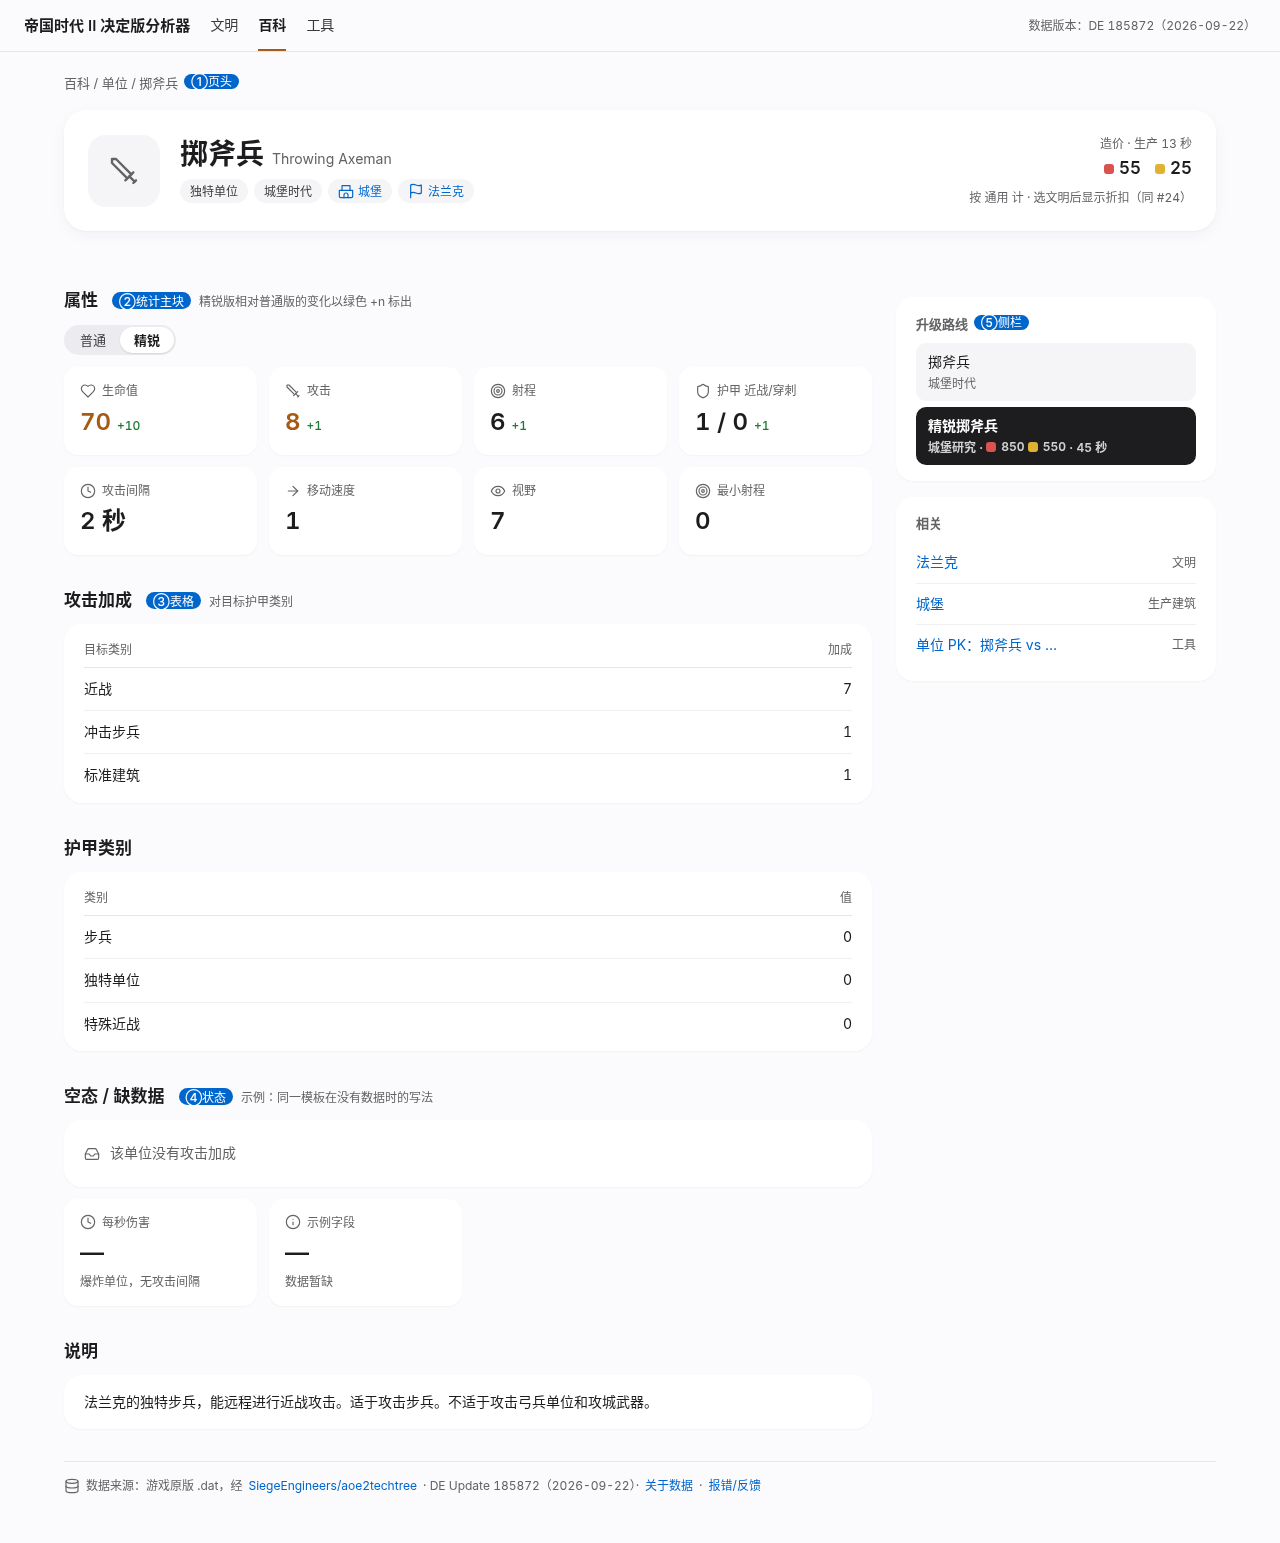
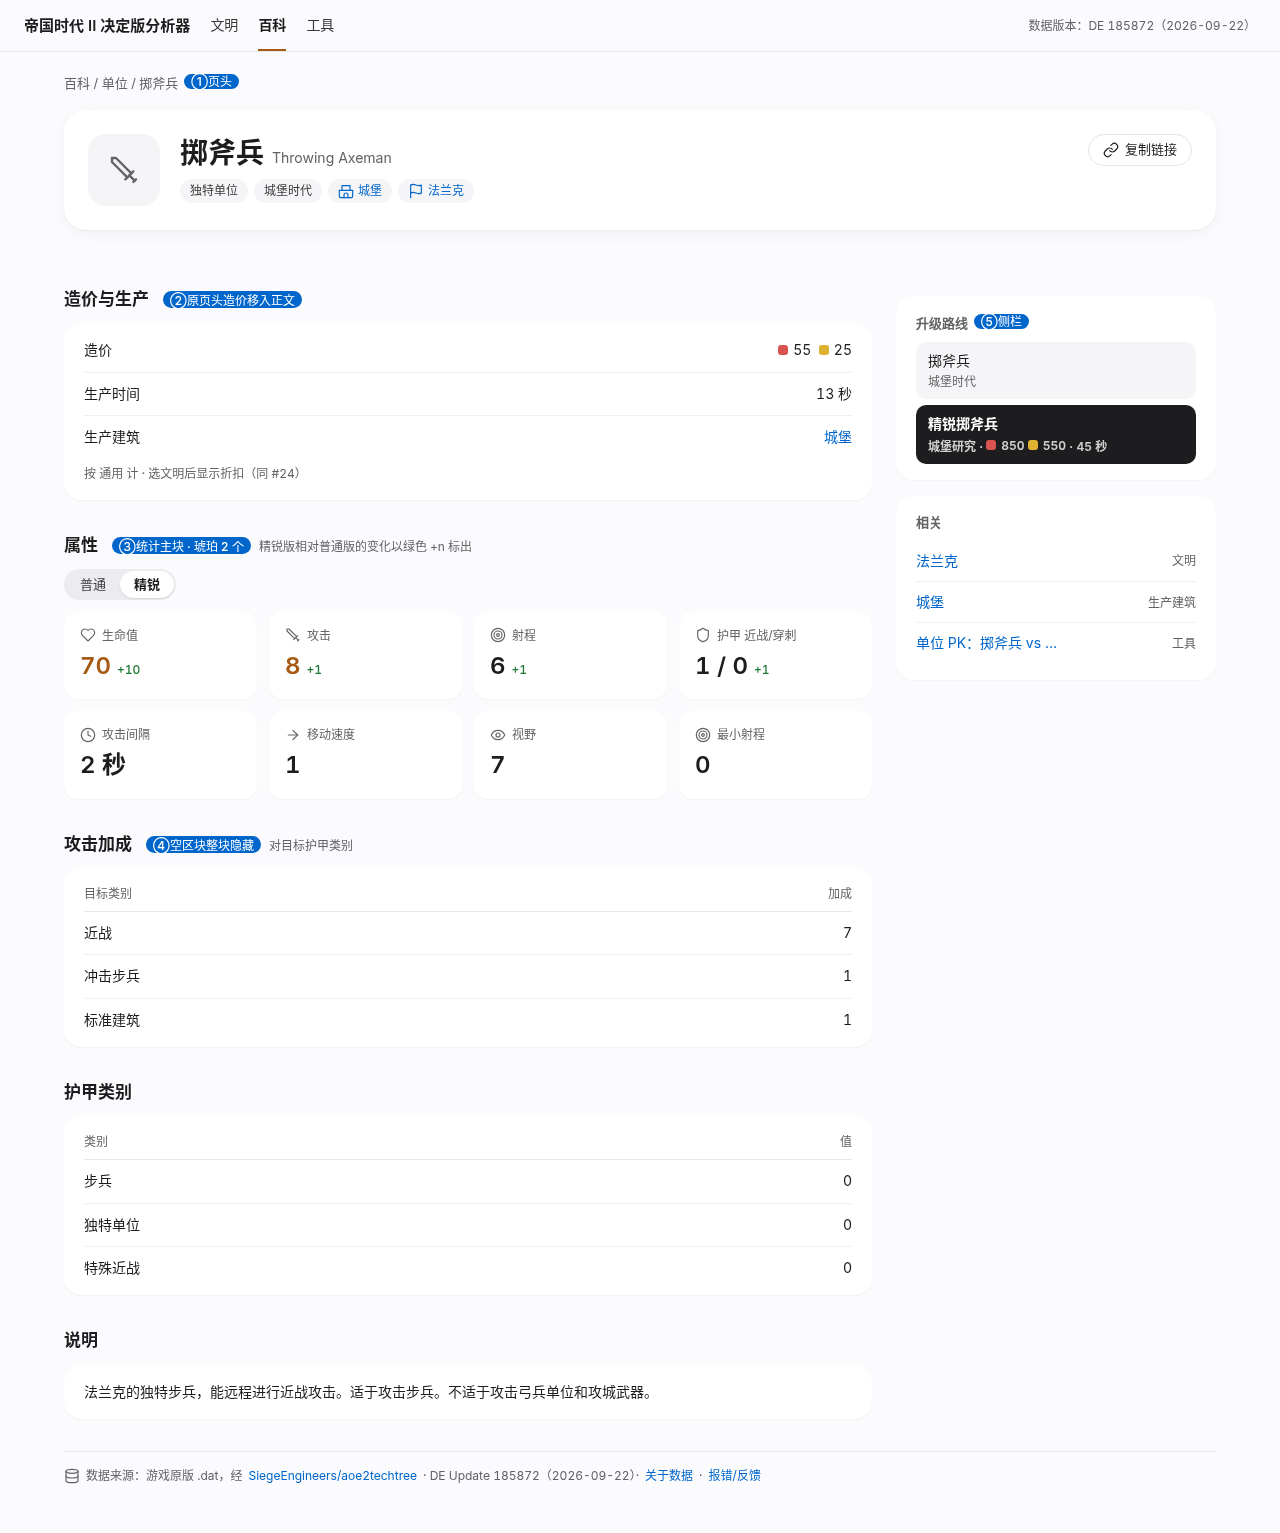
design(#6): 阶段3 模板 v2 — 空区块隐藏、页头仅复制链接、琥珀≤2、补建筑/科技 390

diff --git a/docs/design/mockups/issue6-stage3/icons.js b/docs/design/mockups/issue6-stage3/icons.js
@@ -1,2 +1,2 @@
-const P={sword:'<polyline points="14.5 17.5 3 6 3 3 6 3 17.5 14.5"/><line x1="13" x2="19" y1="19" y2="13"/><line x1="16" x2="20" y1="16" y2="20"/><line x1="19" x2="21" y1="21" y2="19"/>',shield:'<path d="M20 13c0 5-3.5 7.5-7.66 8.95a1 1 0 0 1-.67-.01C7.5 20.5 4 18 4 13V6a1 1 0 0 1 1-1c2 0 4.5-1.2 6.24-2.72a1.17 1.17 0 0 1 1.52 0C14.51 3.81 17 5 19 5a1 1 0 0 1 1 1z"/>',heart:'<path d="M19 14c1.49-1.46 3-3.21 3-5.5A5.5 5.5 0 0 0 16.5 3c-1.76 0-3 .5-4.5 2-1.5-1.5-2.74-2-4.5-2A5.5 5.5 0 0 0 2 8.5c0 2.3 1.5 4.05 3 5.5l7 7Z"/>',target:'<circle cx="12" cy="12" r="10"/><circle cx="12" cy="12" r="6"/><circle cx="12" cy="12" r="2"/>',clock:'<circle cx="12" cy="12" r="10"/><polyline points="12 6 12 12 16 14"/>',eye:'<path d="M2 12s3-7 10-7 10 7 10 7-3 7-10 7-10-7-10-7Z"/><circle cx="12" cy="12" r="3"/>',move:'<path d="M5 12h14"/><path d="m12 5 7 7-7 7"/>',flag:'<path d="M4 15s1-1 4-1 5 2 8 2 4-1 4-1V3s-1 1-4 1-5-2-8-2-4 1-4 1z"/><line x1="4" x2="4" y1="22" y2="15"/>',castle:'<path d="M22 20v-9H2v9a2 2 0 0 0 2 2h16a2 2 0 0 0 2-2Z"/><path d="M18 11V4H6v7"/><path d="M15 22v-4a3 3 0 0 0-3-3a3 3 0 0 0-3 3v4"/>',info:'<circle cx="12" cy="12" r="10"/><path d="M12 16v-4"/><path d="M12 8h.01"/>',db:'<ellipse cx="12" cy="5" rx="9" ry="3"/><path d="M3 5V19A9 3 0 0 0 21 19V5"/><path d="M3 12A9 3 0 0 0 21 12"/>',arrow:'<path d="M5 12h14"/><path d="m12 5 7 7-7 7"/>',flask:'<path d="M10 2v7.527a2 2 0 0 1-.211.896L4.72 20.55a1 1 0 0 0 .9 1.45h12.76a1 1 0 0 0 .9-1.45l-5.069-10.127A2 2 0 0 1 14 9.527V2"/><path d="M8.5 2h7"/>',inbox:'<polyline points="22 12 16 12 14 15 10 15 8 12 2 12"/><path d="M5.45 5.11 2 12v6a2 2 0 0 0 2 2h16a2 2 0 0 0 2-2v-6l-3.45-6.89A2 2 0 0 0 16.76 4H7.24a2 2 0 0 0-1.79 1.11z"/>',scroll:'<path d="M15 12h-5"/><path d="M15 8h-5"/><path d="M19 17V5a2 2 0 0 0-2-2H4"/><path d="M8 21h12a2 2 0 0 0 2-2v-1a1 1 0 0 0-1-1H11a1 1 0 0 0-1 1v1a2 2 0 1 1-4 0V5a2 2 0 1 0-4 0v2a1 1 0 0 0 1 1h3"/>'};
+const P={link:'<path d="M10 13a5 5 0 0 0 7.54.54l3-3a5 5 0 0 0-7.07-7.07l-1.72 1.71"/><path d="M14 11a5 5 0 0 0-7.54-.54l-3 3a5 5 0 0 0 7.07 7.07l1.71-1.71"/>',home:'<path d="M15 21v-8a1 1 0 0 0-1-1h-4a1 1 0 0 0-1 1v8"/><path d="M3 10a2 2 0 0 1 .709-1.528l7-5.999a2 2 0 0 1 2.582 0l7 5.999A2 2 0 0 1 21 10v9a2 2 0 0 1-2 2H5a2 2 0 0 1-2-2z"/>',sword:'<polyline points="14.5 17.5 3 6 3 3 6 3 17.5 14.5"/><line x1="13" x2="19" y1="19" y2="13"/><line x1="16" x2="20" y1="16" y2="20"/><line x1="19" x2="21" y1="21" y2="19"/>',shield:'<path d="M20 13c0 5-3.5 7.5-7.66 8.95a1 1 0 0 1-.67-.01C7.5 20.5 4 18 4 13V6a1 1 0 0 1 1-1c2 0 4.5-1.2 6.24-2.72a1.17 1.17 0 0 1 1.52 0C14.51 3.81 17 5 19 5a1 1 0 0 1 1 1z"/>',heart:'<path d="M19 14c1.49-1.46 3-3.21 3-5.5A5.5 5.5 0 0 0 16.5 3c-1.76 0-3 .5-4.5 2-1.5-1.5-2.74-2-4.5-2A5.5 5.5 0 0 0 2 8.5c0 2.3 1.5 4.05 3 5.5l7 7Z"/>',target:'<circle cx="12" cy="12" r="10"/><circle cx="12" cy="12" r="6"/><circle cx="12" cy="12" r="2"/>',clock:'<circle cx="12" cy="12" r="10"/><polyline points="12 6 12 12 16 14"/>',eye:'<path d="M2 12s3-7 10-7 10 7 10 7-3 7-10 7-10-7-10-7Z"/><circle cx="12" cy="12" r="3"/>',move:'<path d="M5 12h14"/><path d="m12 5 7 7-7 7"/>',flag:'<path d="M4 15s1-1 4-1 5 2 8 2 4-1 4-1V3s-1 1-4 1-5-2-8-2-4 1-4 1z"/><line x1="4" x2="4" y1="22" y2="15"/>',castle:'<path d="M22 20v-9H2v9a2 2 0 0 0 2 2h16a2 2 0 0 0 2-2Z"/><path d="M18 11V4H6v7"/><path d="M15 22v-4a3 3 0 0 0-3-3a3 3 0 0 0-3 3v4"/>',info:'<circle cx="12" cy="12" r="10"/><path d="M12 16v-4"/><path d="M12 8h.01"/>',db:'<ellipse cx="12" cy="5" rx="9" ry="3"/><path d="M3 5V19A9 3 0 0 0 21 19V5"/><path d="M3 12A9 3 0 0 0 21 12"/>',arrow:'<path d="M5 12h14"/><path d="m12 5 7 7-7 7"/>',flask:'<path d="M10 2v7.527a2 2 0 0 1-.211.896L4.72 20.55a1 1 0 0 0 .9 1.45h12.76a1 1 0 0 0 .9-1.45l-5.069-10.127A2 2 0 0 1 14 9.527V2"/><path d="M8.5 2h7"/>',inbox:'<polyline points="22 12 16 12 14 15 10 15 8 12 2 12"/><path d="M5.45 5.11 2 12v6a2 2 0 0 0 2 2h16a2 2 0 0 0 2-2v-6l-3.45-6.89A2 2 0 0 0 16.76 4H7.24a2 2 0 0 0-1.79 1.11z"/>',scroll:'<path d="M15 12h-5"/><path d="M15 8h-5"/><path d="M19 17V5a2 2 0 0 0-2-2H4"/><path d="M8 21h12a2 2 0 0 0 2-2v-1a1 1 0 0 0-1-1H11a1 1 0 0 0-1 1v1a2 2 0 1 1-4 0V5a2 2 0 1 0-4 0v2a1 1 0 0 0 1 1h3"/>'};
 document.querySelectorAll('[data-i]').forEach(e=>e.outerHTML='<svg class="i" aria-hidden="true" viewBox="0 0 24 24">'+P[e.dataset.i]+'</svg>');

diff --git a/docs/design/mockups/issue6-stage3/unit.html b/docs/design/mockups/issue6-stage3/unit.html
@@ -2,9 +2,11 @@
 <div class=crumb>百科 / 单位 / 掷斧兵<span class=ann>①页头</span></div>
 <div class=hd><div class=av><i data-i="sword"></i></div><div><h1>掷斧兵<small>Throwing Axeman</small></h1>
 <div class=chips><span class=chip>独特单位</span><span class=chip>城堡时代</span><a class=chip href=#><i data-i="castle"></i>城堡</a><a class=chip href=#><i data-i="flag"></i>法兰克</a></div></div>
-<div class=cost><div class=lb>造价 · 生产 13 秒</div><div class=v><span class=res><i class="dot f"></i>55</span><span class=res><i class="dot g"></i>25</span></div><div class=note>按 通用 计 · 选文明后显示折扣（同 #24）</div></div></div>
+<div class=hdr><button class=copy><i data-i="link"></i>复制链接</button></div></div>
 <div class=grid><div>
-<h2>属性<span class=ann>②统计主块</span><small>精锐版相对普通版的变化以绿色 +n 标出</small></h2>
+<h2>造价与生产<span class=ann>②原页头造价移入正文</span></h2>
+<div class=card><table><tr><td>造价</td><td class=r><span class=res><i class="dot f"></i>55</span>&nbsp;&nbsp;<span class=res><i class="dot g"></i>25</span></td></tr><tr><td>生产时间</td><td class=r>13 秒</td></tr><tr><td>生产建筑</td><td class=r><a href=#>城堡</a></td></tr></table><div class=note style="padding-bottom:10px">按 通用 计 · 选文明后显示折扣（同 #24）</div></div>
+<h2>属性<span class=ann>③统计主块 · 琥珀 2 个</span><small>精锐版相对普通版的变化以绿色 +n 标出</small></h2>
 <div class=seg><span>普通</span><span class=on>精锐</span></div>
 <div class=stats>
 <div class=st><div class=k><i data-i="heart"></i>生命值</div><div class="v key">70<span class=d>+10</span></div></div>
@@ -15,12 +17,9 @@
 <div class=st><div class=k><i data-i="move"></i>移动速度</div><div class=v>1</div></div>
 <div class=st><div class=k><i data-i="eye"></i>视野</div><div class=v>7</div></div>
 <div class=st><div class=k><i data-i="target"></i>最小射程</div><div class=v>0</div></div></div>
-<h2>攻击加成<span class=ann>③表格</span><small>对目标护甲类别</small></h2>
+<h2>攻击加成<span class=ann>④空区块整块隐藏</span><small>对目标护甲类别</small></h2>
 <div class=card><table><tr><th>目标类别</th><th class=r>加成</th></tr><tr><td>近战</td><td class=r>7</td></tr><tr><td>冲击步兵</td><td class=r>1</td></tr><tr><td>标准建筑</td><td class=r>1</td></tr></table></div>
 <h2>护甲类别</h2><div class=card><table><tr><th>类别</th><th class=r>值</th></tr><tr><td>步兵</td><td class=r>0</td></tr><tr><td>独特单位</td><td class=r>0</td></tr><tr><td>特殊近战</td><td class=r>0</td></tr></table></div>
-<h2>空态 / 缺数据<span class=ann>④状态</span><small>示例：同一模板在没有数据时的写法</small></h2>
-<div class=card><div class=empty><i data-i="inbox"></i>该单位没有攻击加成</div></div>
-<div class=stats style="margin-top:12px"><div class=st><div class=k><i data-i="clock"></i>每秒伤害</div><div class=v>—</div><div class=na>爆炸单位，无攻击间隔</div></div><div class=st><div class=k><i data-i="info"></i>示例字段</div><div class=v>—</div><div class=na>数据暂缺</div></div></div>
 <h2>说明</h2><div class=card><p style="font-size:14px;margin:10px 0">法兰克的独特步兵，能远程进行近战攻击。适于攻击步兵。不适于攻击弓兵单位和攻城武器。</p></div>
 </div><div class=side><div style="height:42px"></div>
 <div class=card><h3>升级路线<span class=ann>⑤侧栏</span></h3><div class=line><div>掷斧兵<small>城堡时代</small></div><div class=cur>精锐掷斧兵<small style="color:#ffffffcc">城堡研究 · <span class=res><i class="dot f"></i>850</span> <span class=res><i class="dot g"></i>550</span> · 45 秒</small></div></div></div>

diff --git a/docs/design/mockups/issue6-stage3/building.html b/docs/design/mockups/issue6-stage3/building.html
@@ -1,0 +1,19 @@
+<!doctype html><meta charset=utf-8><link rel=stylesheet href=t.css><body><div class="top"><b>帝国时代 II 决定版分析器</b><span class="n">文明</span><span class="n on">百科</span><span class="n">工具</span><span class="ver">数据版本：DE 185872（2026-09-22）</span></div><div class=wrap><div class=crumb>百科 / 建筑 / 兵营</div>
+<div class=hd><div class=av><i data-i="home"></i></div><div><h1>兵营<small>Barracks</small></h1><div class=chips><span class=chip>军事建筑</span><span class=chip>黑暗时代</span></div></div><div class=hdr><button class=copy><i data-i="link"></i>复制链接</button></div></div>
+<div class=grid><div>
+<h2>造价与建造</h2><div class=card><table><tr><td>造价</td><td class=r><span class=res><i class="dot w"></i>175</span></td></tr><tr><td>建造时间</td><td class=r>50 秒</td></tr><tr><td>驻扎</td><td class=r>10</td></tr></table><div class=note style="padding-bottom:10px">按 通用 计 · 56 个文明均可建造</div></div>
+<h2>属性<small>琥珀 2 个</small></h2><div class=stats>
+<div class=st><div class=k><i data-i="heart"></i>生命值</div><div class="v key">1200</div></div>
+<div class=st><div class=k><i data-i="shield"></i>护甲 近战/穿刺</div><div class="v key">0 / 7</div></div>
+<div class=st><div class=k><i data-i="eye"></i>视野</div><div class=v>6</div></div></div>
+<h2>可训练单位<small>节选</small></h2><div class=card><table><tr><th>单位</th><th>时代</th><th class=r>造价</th></tr>
+<tr><td><a href=#>民兵</a></td><td>黑暗</td><td class=r><span class=res><i class="dot f"></i>50</span> <span class=res><i class="dot g"></i>20</span></td></tr>
+<tr><td><a href=#>长矛兵</a></td><td>封建</td><td class=r><span class=res><i class="dot f"></i>35</span> <span class=res><i class="dot w"></i>25</span></td></tr>
+<tr><td><a href=#>鹰斥候</a></td><td>封建</td><td class=r><span class=res><i class="dot f"></i>20</span> <span class=res><i class="dot g"></i>50</span></td></tr></table></div>
+<h2>可研究科技</h2><div class=card><table><tr><th>科技</th><th>时代</th><th class=r>造价 · 时间</th></tr>
+<tr><td><a href=#>纵火</a></td><td>封建</td><td class=r><span class=res><i class="dot f"></i>75</span> <span class=res><i class="dot g"></i>25</span> · 25 秒</td></tr>
+<tr><td><a href=#>护卫</a></td><td>城堡</td><td class=r><span class=res><i class="dot f"></i>100</span> · 40 秒</td></tr>
+<tr><td><a href=#>软甲</a></td><td>城堡</td><td class=r><span class=res><i class="dot f"></i>50</span> <span class=res><i class="dot g"></i>100</span> · 25 秒</td></tr></table></div>
+<h2>说明</h2><div class=card><p style="font-size:14px;margin:10px 0">用于训练和升级步兵。靶场和马厩的前置建筑。</p></div>
+<p class=note>攻击、射程为 0 → 「攻击」区块整块隐藏（不显示「无」）</p>
+</div><div class=side><div class="card rel"><h3>相关</h3><a href=#>靶场 <span class=t>需要兵营</span></a><a href=#>马厩 <span class=t>需要兵营</span></a></div></div></div><div class="src"><i data-i="db"></i>数据来源：游戏原版 .dat，经 <a href="#">SiegeEngineers/aoe2techtree</a> · DE Update 185872（2026-09-22）· <a href="#">关于数据</a> · <a href="#">报错/反馈</a></div></div><script src=icons.js></script>

diff --git a/docs/design/mockups/issue6-stage3/civ.html b/docs/design/mockups/issue6-stage3/civ.html
@@ -2,18 +2,19 @@
 <div class=crumb>文明 / 法兰克</div>
 <div class=hd><div class="av round"><i data-i="flag"></i></div><div><h1>法兰克<small>Franks</small></h1>
 <div class=chips><span class=chip>骑兵文明</span><a class=chip href=#><i data-i="scroll"></i>文明加成表 <i data-i="arrow"></i></a></div></div>
-<div class=cost><div class=lb>开局建议</div><div class=v style="font-size:14px;font-weight:500">侦察骑兵 → 速城堡骑士 → 侠客/圣骑士</div></div></div>
+<div class=hdr><button class=copy><i data-i="link"></i>复制链接</button></div></div>
 <div class=grid><div>
+<h2>开局建议<span class=ann>原页头移入正文</span></h2><div class=card><p style="font-size:14px;margin:10px 0">侦察骑兵 → 速城堡骑士 → 侠客/圣骑士</p></div>
 <h2>能力评分<small>主观评分，仅供参考</small></h2>
 <div class=stats>
 <div class=st><div class=k>骑兵</div><div class="v key">10</div><div class=bar><i style="width:100%"></i></div></div>
-<div class=st><div class=k>弓手</div><div class=v>4</div><div class=bar><i style="width:40%"></i></div></div>
-<div class=st><div class=k>步兵</div><div class=v>6</div><div class=bar><i style="width:60%"></i></div></div>
+<div class=st><div class=k>弓手</div><div class=v>4</div><div class=bar><i class=n style="width:40%"></i></div></div>
+<div class=st><div class=k>步兵</div><div class=v>6</div><div class=bar><i class=n style="width:60%"></i></div></div>
 <div class=st><div class=k>经济</div><div class="v key">8</div><div class=bar><i style="width:80%"></i></div></div>
-<div class=st><div class=k>防御</div><div class=v>6</div><div class=bar><i style="width:60%"></i></div></div>
-<div class=st><div class=k>攻城</div><div class=v>5</div><div class=bar><i style="width:50%"></i></div></div>
-<div class=st><div class=k>僧侣</div><div class=v>4</div><div class=bar><i style="width:40%"></i></div></div>
-<div class=st><div class=k>海军</div><div class=v>5</div><div class=bar><i style="width:50%"></i></div></div></div>
+<div class=st><div class=k>防御</div><div class=v>6</div><div class=bar><i class=n style="width:60%"></i></div></div>
+<div class=st><div class=k>攻城</div><div class=v>5</div><div class=bar><i class=n style="width:50%"></i></div></div>
+<div class=st><div class=k>僧侣</div><div class=v>4</div><div class=bar><i class=n style="width:40%"></i></div></div>
+<div class=st><div class=k>海军</div><div class=v>5</div><div class=bar><i class=n style="width:50%"></i></div></div></div>
 <h2>文明加成</h2><div class=card><ul class=b><li><span class=tag>经济</span>采果工的工作速度 +15%</li><li><span class=tag>科技</span>磨坊科技免费</li><li><span class=tag>军事</span>骑兵单位从封建时代开始生命值 +20%</li><li><span class=tag>费用</span>城堡在城堡/帝王时代的费用 -15/25%</li></ul></div>
 <h2>团队加成</h2><div class=card><ul class=b><li>骑士系视野 +2</li></ul></div>
 <h2>独特科技</h2><div class=card><table><tr><th>科技</th><th>时代</th><th>效果</th></tr><tr><td><a href=#>王家敕令骑兵</a></td><td>城堡</td><td>骑马弩手花费的黄金 -40%</td></tr><tr><td><a href=#>骑士精神</a></td><td>帝王</td><td>马厩的工作速度 +40%</td></tr></table></div>

diff --git a/docs/design/mockups/issue6-stage3/tech.html b/docs/design/mockups/issue6-stage3/tech.html
@@ -1,0 +1,10 @@
+<!doctype html><meta charset=utf-8><link rel=stylesheet href=t.css><body><div class="top"><b>帝国时代 II 决定版分析器</b><span class="n">文明</span><span class="n on">百科</span><span class="n">工具</span><span class="ver">数据版本：DE 185872（2026-09-22）</span></div><div class=wrap><div class=crumb>百科 / 科技 / 织布机</div>
+<div class=hd><div class=av><i data-i="flask"></i></div><div><h1>织布机<small>Loom</small></h1><div class=chips><span class=chip>经济科技</span><span class=chip>黑暗时代</span><a class=chip href=#><i data-i="home"></i>城镇中心</a></div></div><div class=hdr><button class=copy><i data-i="link"></i>复制链接</button></div></div>
+<div class=grid><div>
+<h2>研究</h2><div class=card><table><tr><td>费用</td><td class=r><span class=res><i class="dot g"></i>50</span></td></tr><tr><td>研究时间</td><td class=r>25 秒</td></tr><tr><td>研究建筑</td><td class=r><a href=#>城镇中心</a></td></tr></table><div class=note style="padding-bottom:10px">按 通用 计 · 56 个文明均可研究</div></div>
+<h2>效果<small>琥珀 2 个</small></h2><div class=stats>
+<div class=st><div class=k><i data-i="heart"></i>村民生命值</div><div class="v key">+15</div></div>
+<div class=st><div class=k><i data-i="shield"></i>村民护甲 近战/穿刺</div><div class="v key">+1 / +2</div></div></div>
+<h2>说明</h2><div class=card><p style="font-size:14px;margin:10px 0">村民的生命值 +15，近战护甲 +1/远程护甲 +2。</p></div>
+<p class=note>无前置科技、无后续科技 → 「升级路线」区块整块隐藏</p>
+</div></div><div class="src"><i data-i="db"></i>数据来源：游戏原版 .dat，经 <a href="#">SiegeEngineers/aoe2techtree</a> · DE Update 185872（2026-09-22）· <a href="#">关于数据</a> · <a href="#">报错/反馈</a></div></div><script src=icons.js></script>

diff --git a/docs/design/mockups/issue6-stage3/t.css b/docs/design/mockups/issue6-stage3/t.css
@@ -34,3 +34,6 @@ table{width:100%;border-collapse:collapse;font-size:14px}th{font:500 12px Inter;
 ul.b{margin:0;padding:6px 0;list-style:none}ul.b li{padding:9px 0;border-bottom:1px solid var(--line);font-size:14px;display:flex;gap:10px}ul.b li:last-child{border:0}ul.b .tag{font-size:12px;color:var(--mu);min-width:40px}
 .note{font-size:12px;color:var(--mu);margin-top:6px}
 @media (max-width:600px){.ver{display:none}.side>div[style]{display:none}.top .n{display:none}.wrap{padding:12px 16px 40px}.hd{grid-template-columns:56px 1fr;padding:18px;gap:14px}.av{width:56px;height:56px}h1{font-size:22px}.cost{grid-column:1/-1;text-align:left;border-top:1px solid var(--line);padding-top:12px}.cost .v{justify-content:flex-start}.grid{grid-template-columns:1fr}.stats{grid-template-columns:repeat(2,1fr);gap:8px}.st .v{font-size:20px}.card{padding:4px 16px}}
+.hdr{align-self:start}.copy{font:inherit;font-size:13px;height:32px;padding:0 14px;border-radius:999px;border:1px solid var(--bd);background:var(--surf);color:var(--tx);display:inline-flex;gap:6px;align-items:center}
+.bar i.n{background:#aeaeb2}
+@media (max-width:600px){.hd{grid-template-columns:56px 1fr auto}.hdr{grid-column:auto}.copy span{display:none}}

diff --git a/docs/design/mockups/issue6-stage3/SPEC.md b/docs/design/mockups/issue6-stage3/SPEC.md
@@ -1,0 +1,7 @@
+# #6 阶段3 详情页统一模板 v2（Steve 四点已落实）
+
+1. 空区块整块隐藏：没有数据的区块连标题一起不渲染，不出现空态、不显示「无」。单个字段缺失（如爆炸单位 DPS）仍按 #27 显示「—」+ muted 说明。
+2. 页头右侧只放「复制链接」（与工具页一致）。造价、生产/建造/研究时间移到正文第一个区块「造价与生产 / 造价与建造 / 研究」；文明页「开局建议」移到正文首个区块。
+3. 琥珀色关键数每页最多 2 个：单位=生命值、攻击；文明=骑兵 10、经济 8（其余评分条改中性灰 #aeaeb2）；建筑=生命值、护甲；科技=两项效果。
+4. 新增 390 样稿：兵营（buildings.json id 12）、织布机（techs.json id 22）。数据来自 main@8510871 的 src/data/*.json，可训练单位为节选。
+Design System C · Lucide · muted #636366 · AA。
